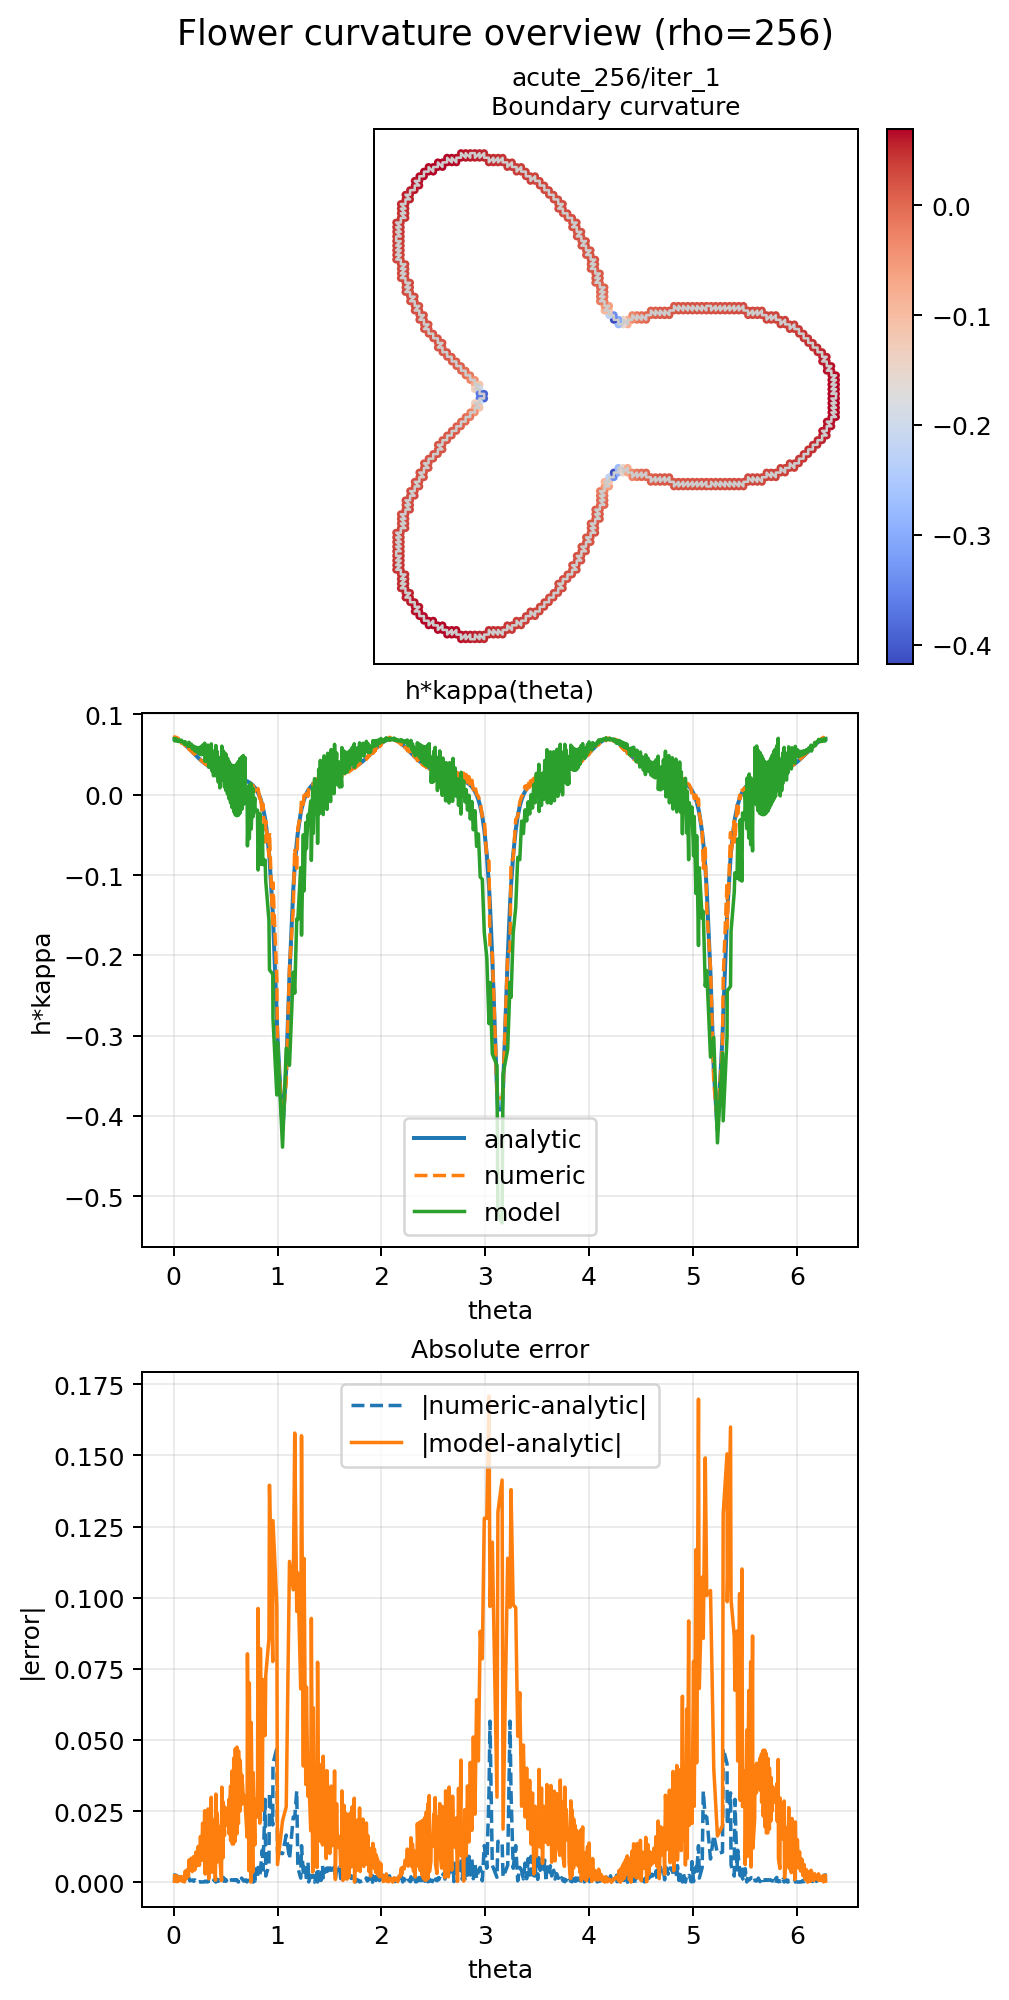
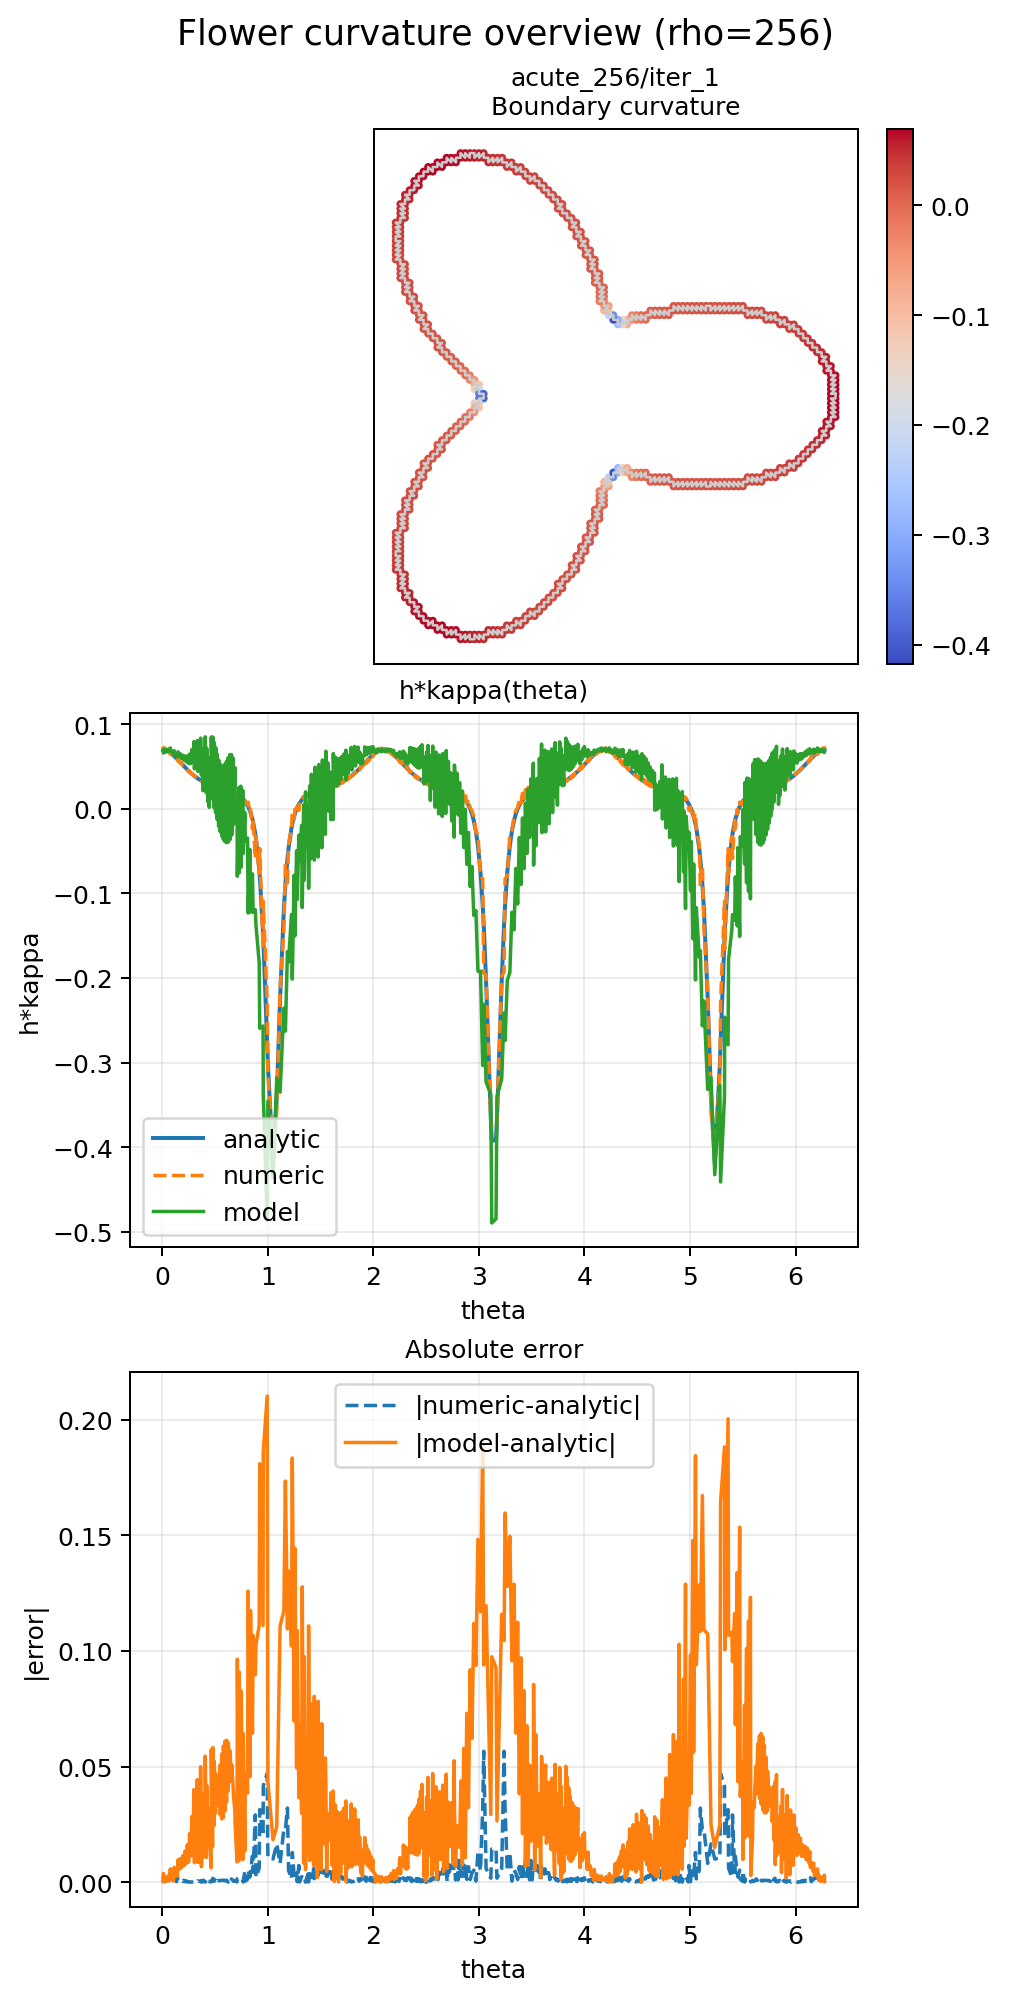
local updates: training/evaluation tweaks and logs

diff --git a/RUN_GUIDE.md b/RUN_GUIDE.md
@@ -1,4 +1,4 @@
-# Run Guide
+# Run Guide
 
 ```bash
 # 1. Generate training data
@@ -20,22 +20,21 @@ python -m evaluate.split \
   --model-path out/model_256.pt --normalization-csv out/model_256.csv
 
 # 4. Generate flower test data
-python -m testdata_generate --rho-model 256 \
-  --test-iters 1,2,3,4,5,10,20 --output test_data/rho256.h5
+python -m testdata_generate --rho-model 128 \
+  --output test_data/rho128.h5
 
 # Generate rho276 test data
-python -m testdata_generate --rho-model 276 --output test_data/rho276.h5
+python -m testdata_generate --rho-model 276 --scale-h --output test_data/rho276_h.h5
 
 # 5. Evaluate flower
 python -m evaluate.flower \
-  --data test_data/rho256.h5 \
-  --model-path out/model_256.pt --normalization-csv out/model_256.csv \
-  --use-swanlab --swanlab-mode cloud --swanlab-project PINN \
-  --swanlab-experiment-name flower_256 --swanlab-tags baseline,rho256
+  --data test_data/rho256_h.h5 \
+  --model-path out/2430/baseline_256_h.pt --normalization-csv out/2430/baseline_256_h.csv \
+  --use-swanlab --swanlab-mode cloud --swanlab-project geometry \
+  --swanlab-experiment-name flower_256_phi9h --swanlab-tags version_phi/h,model256-256
 ```
 
 ## Custom Scenario Generation (V1 phi9)
-
 `--scenario-config` is supported for V1 phi9 flower generation:
 
 ```json
